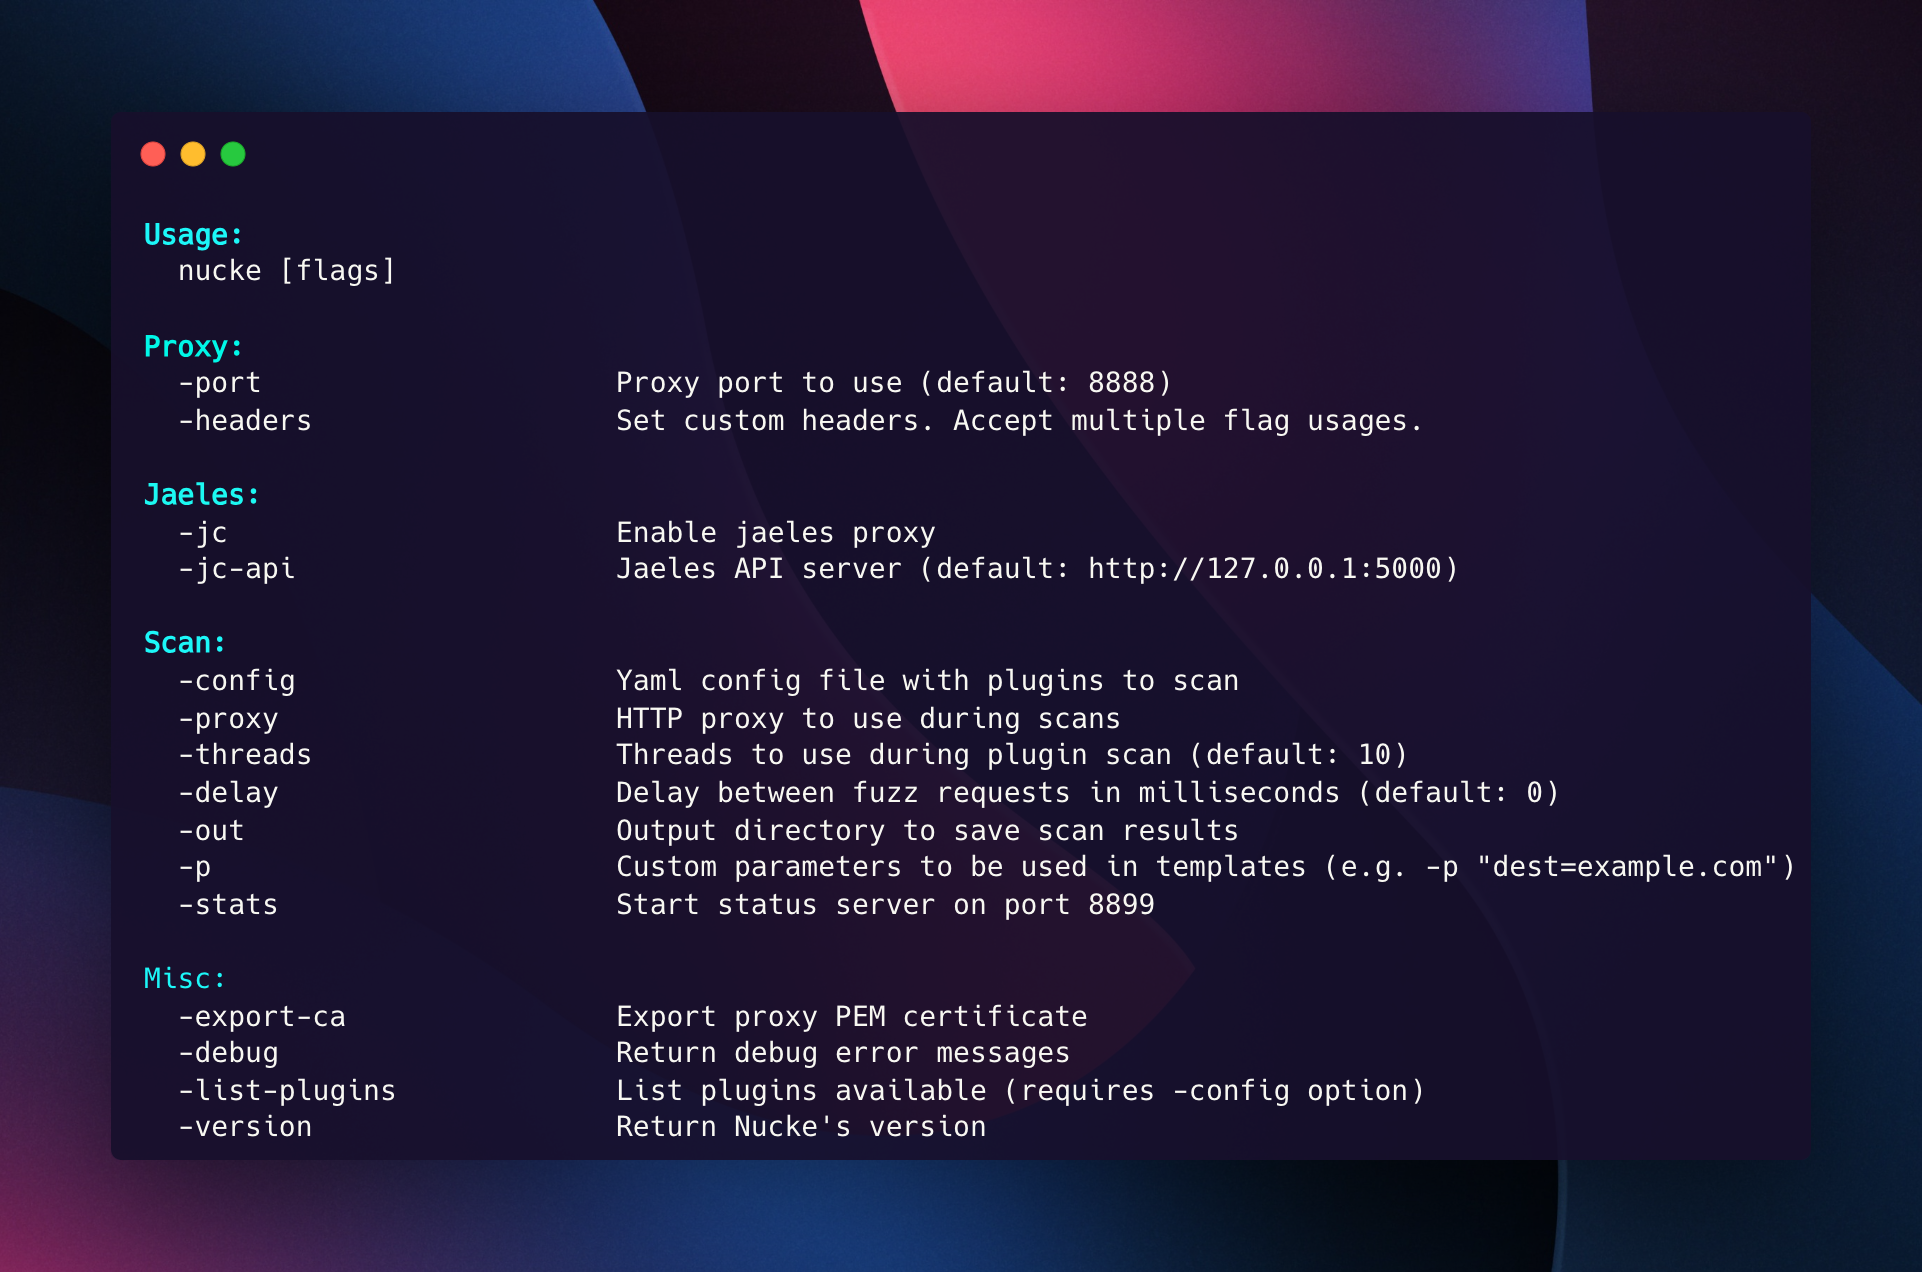
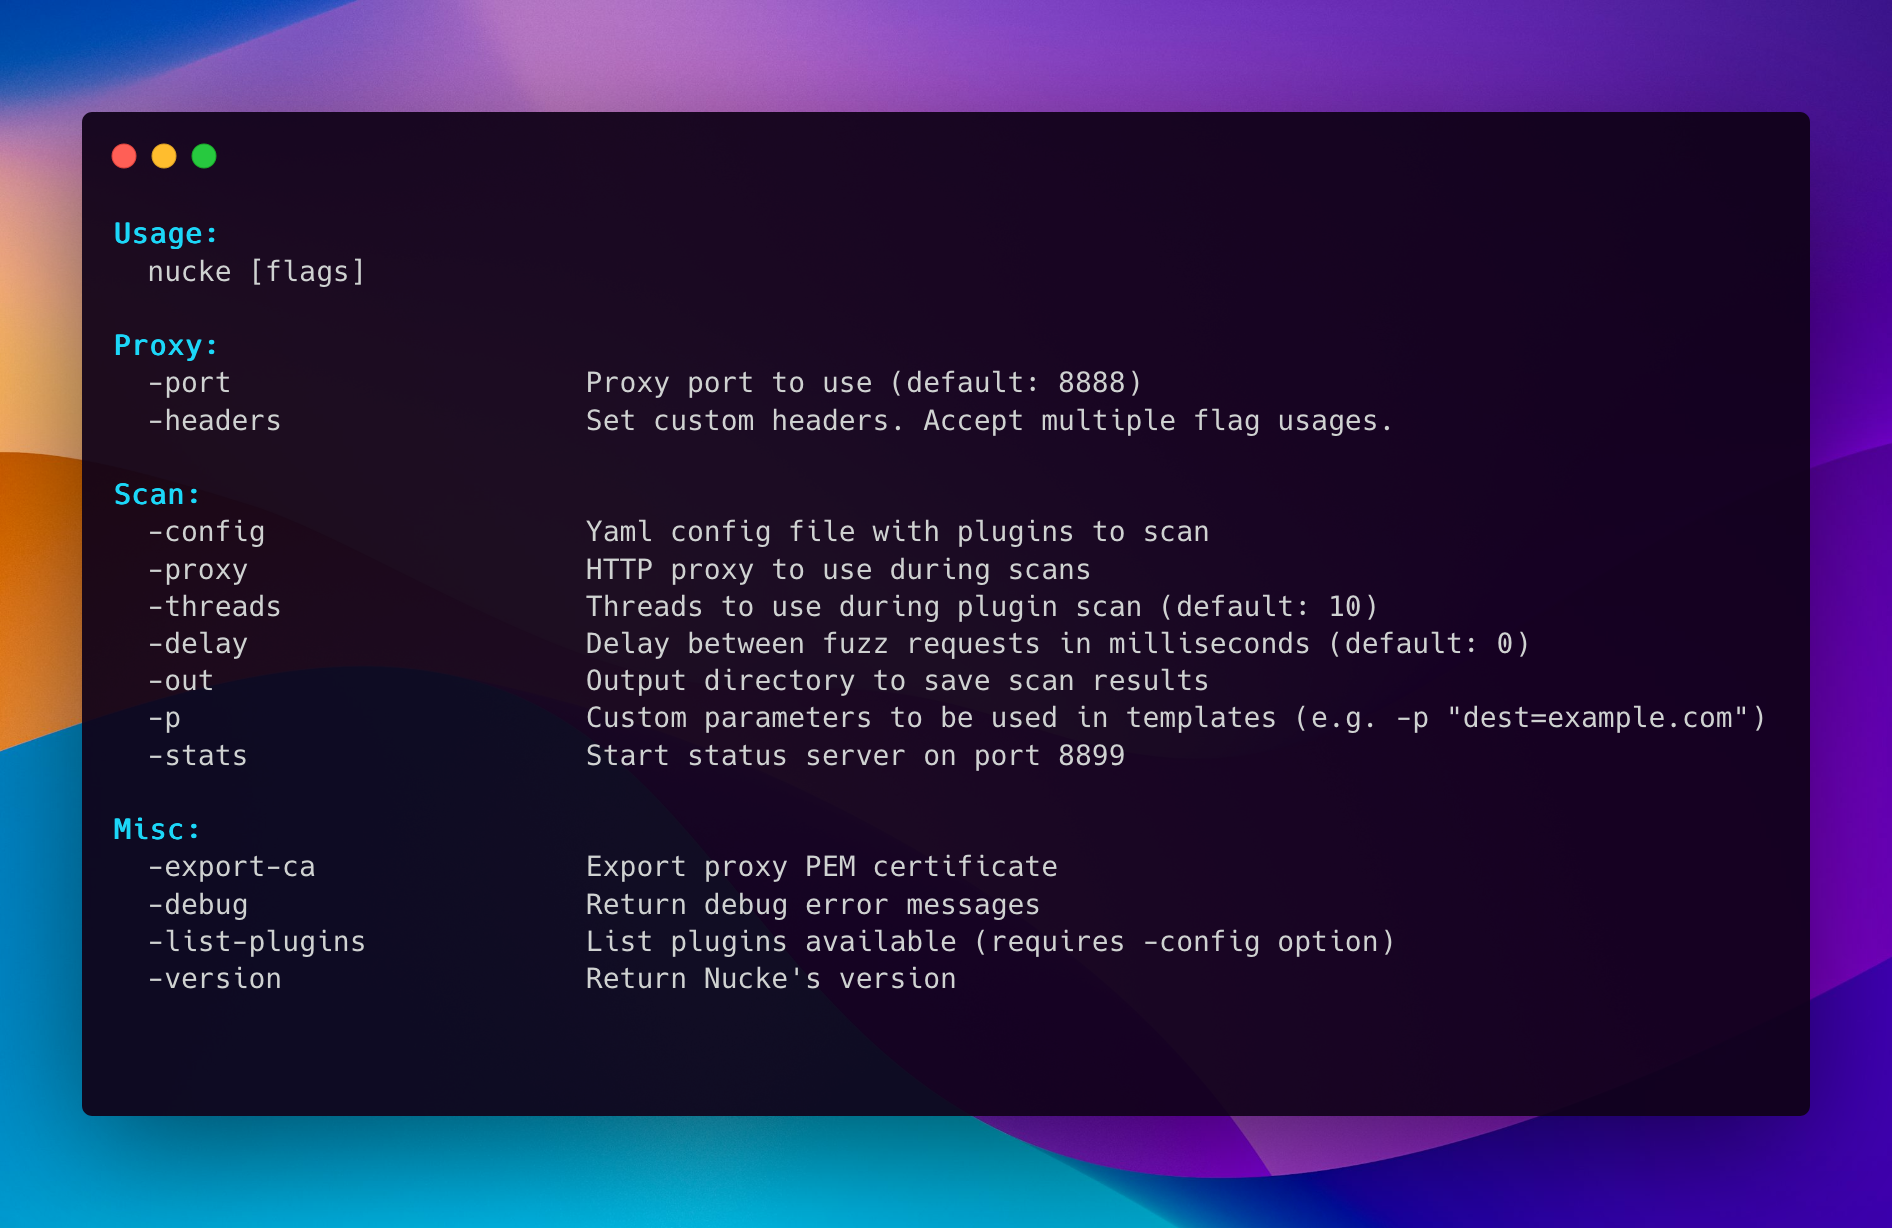
update doc

diff --git a/docs/getting-started/usage.md b/docs/getting-started/usage.md
@@ -23,9 +23,6 @@ nucke -config config.yaml -out report
 # Set threads to scan (concurrency of urls to be scanned)
 nucke -config config.yaml -threads 50
 
-# Start proxy server and redirect requests to jaeles API
-nucke -jc -jc-api "http://jaeles-server:5000"
-
 # Export CA certificate to install locally/in browser
 nucke -export-ca
 
